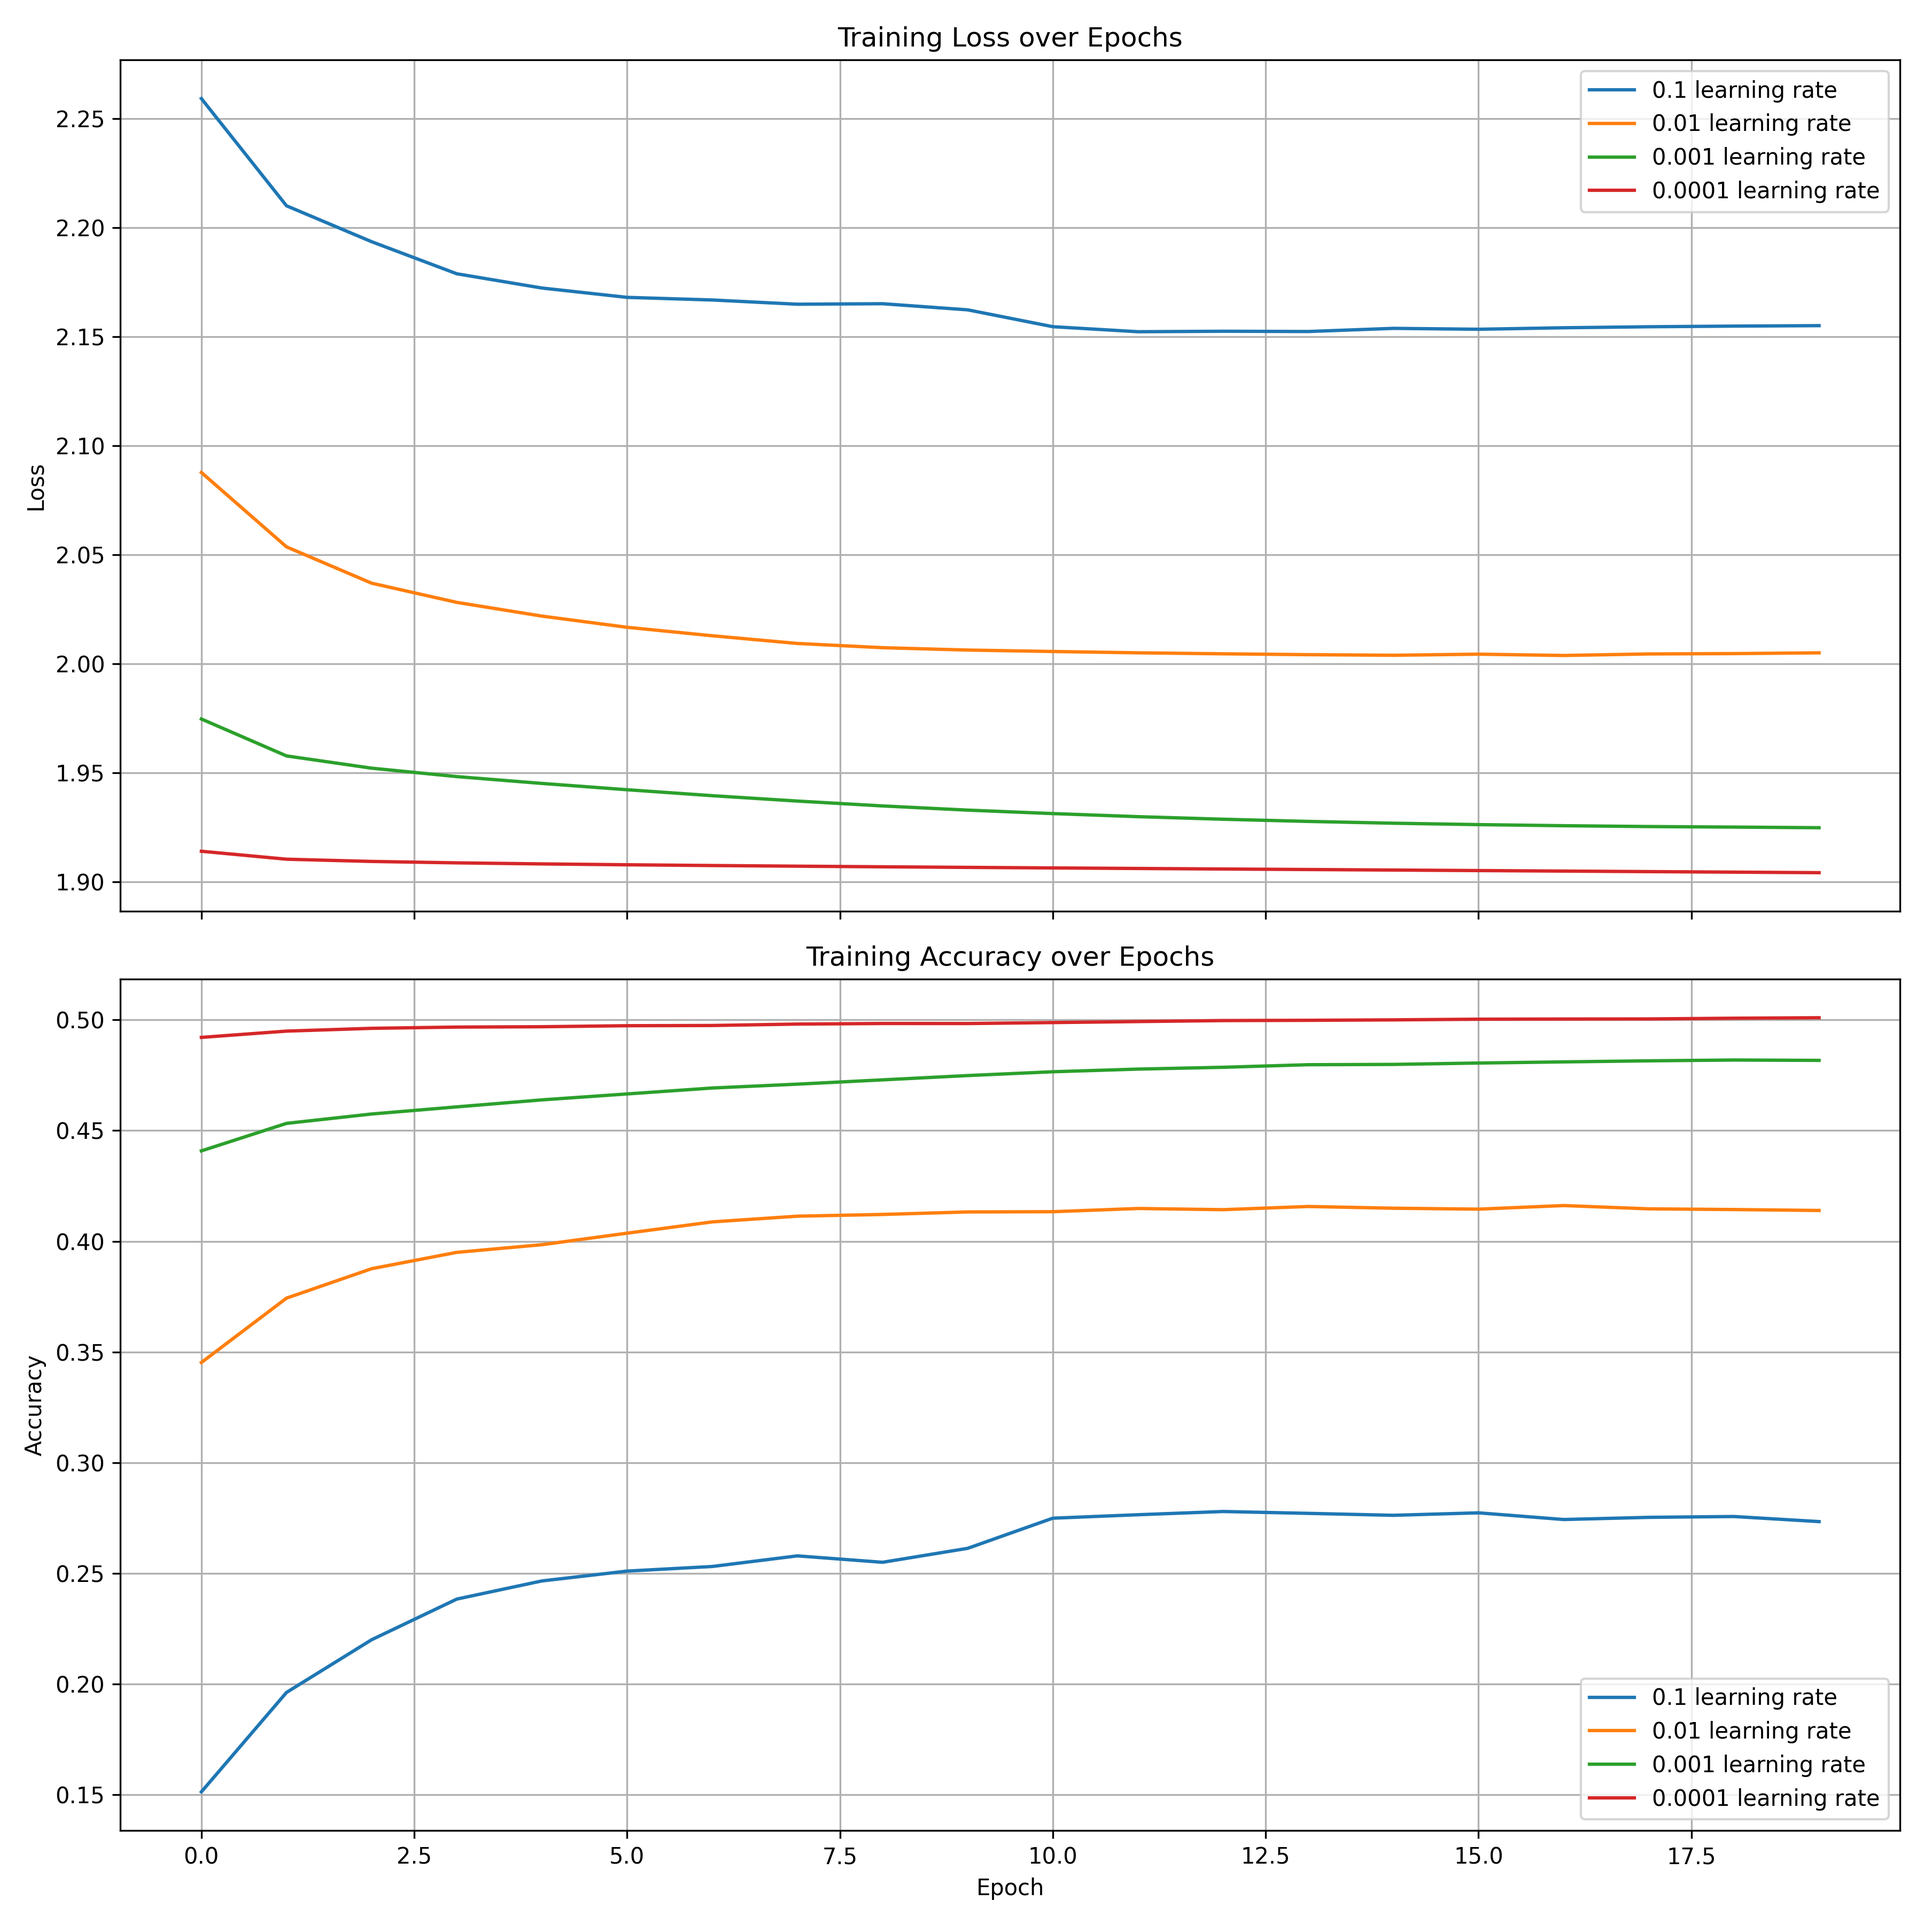
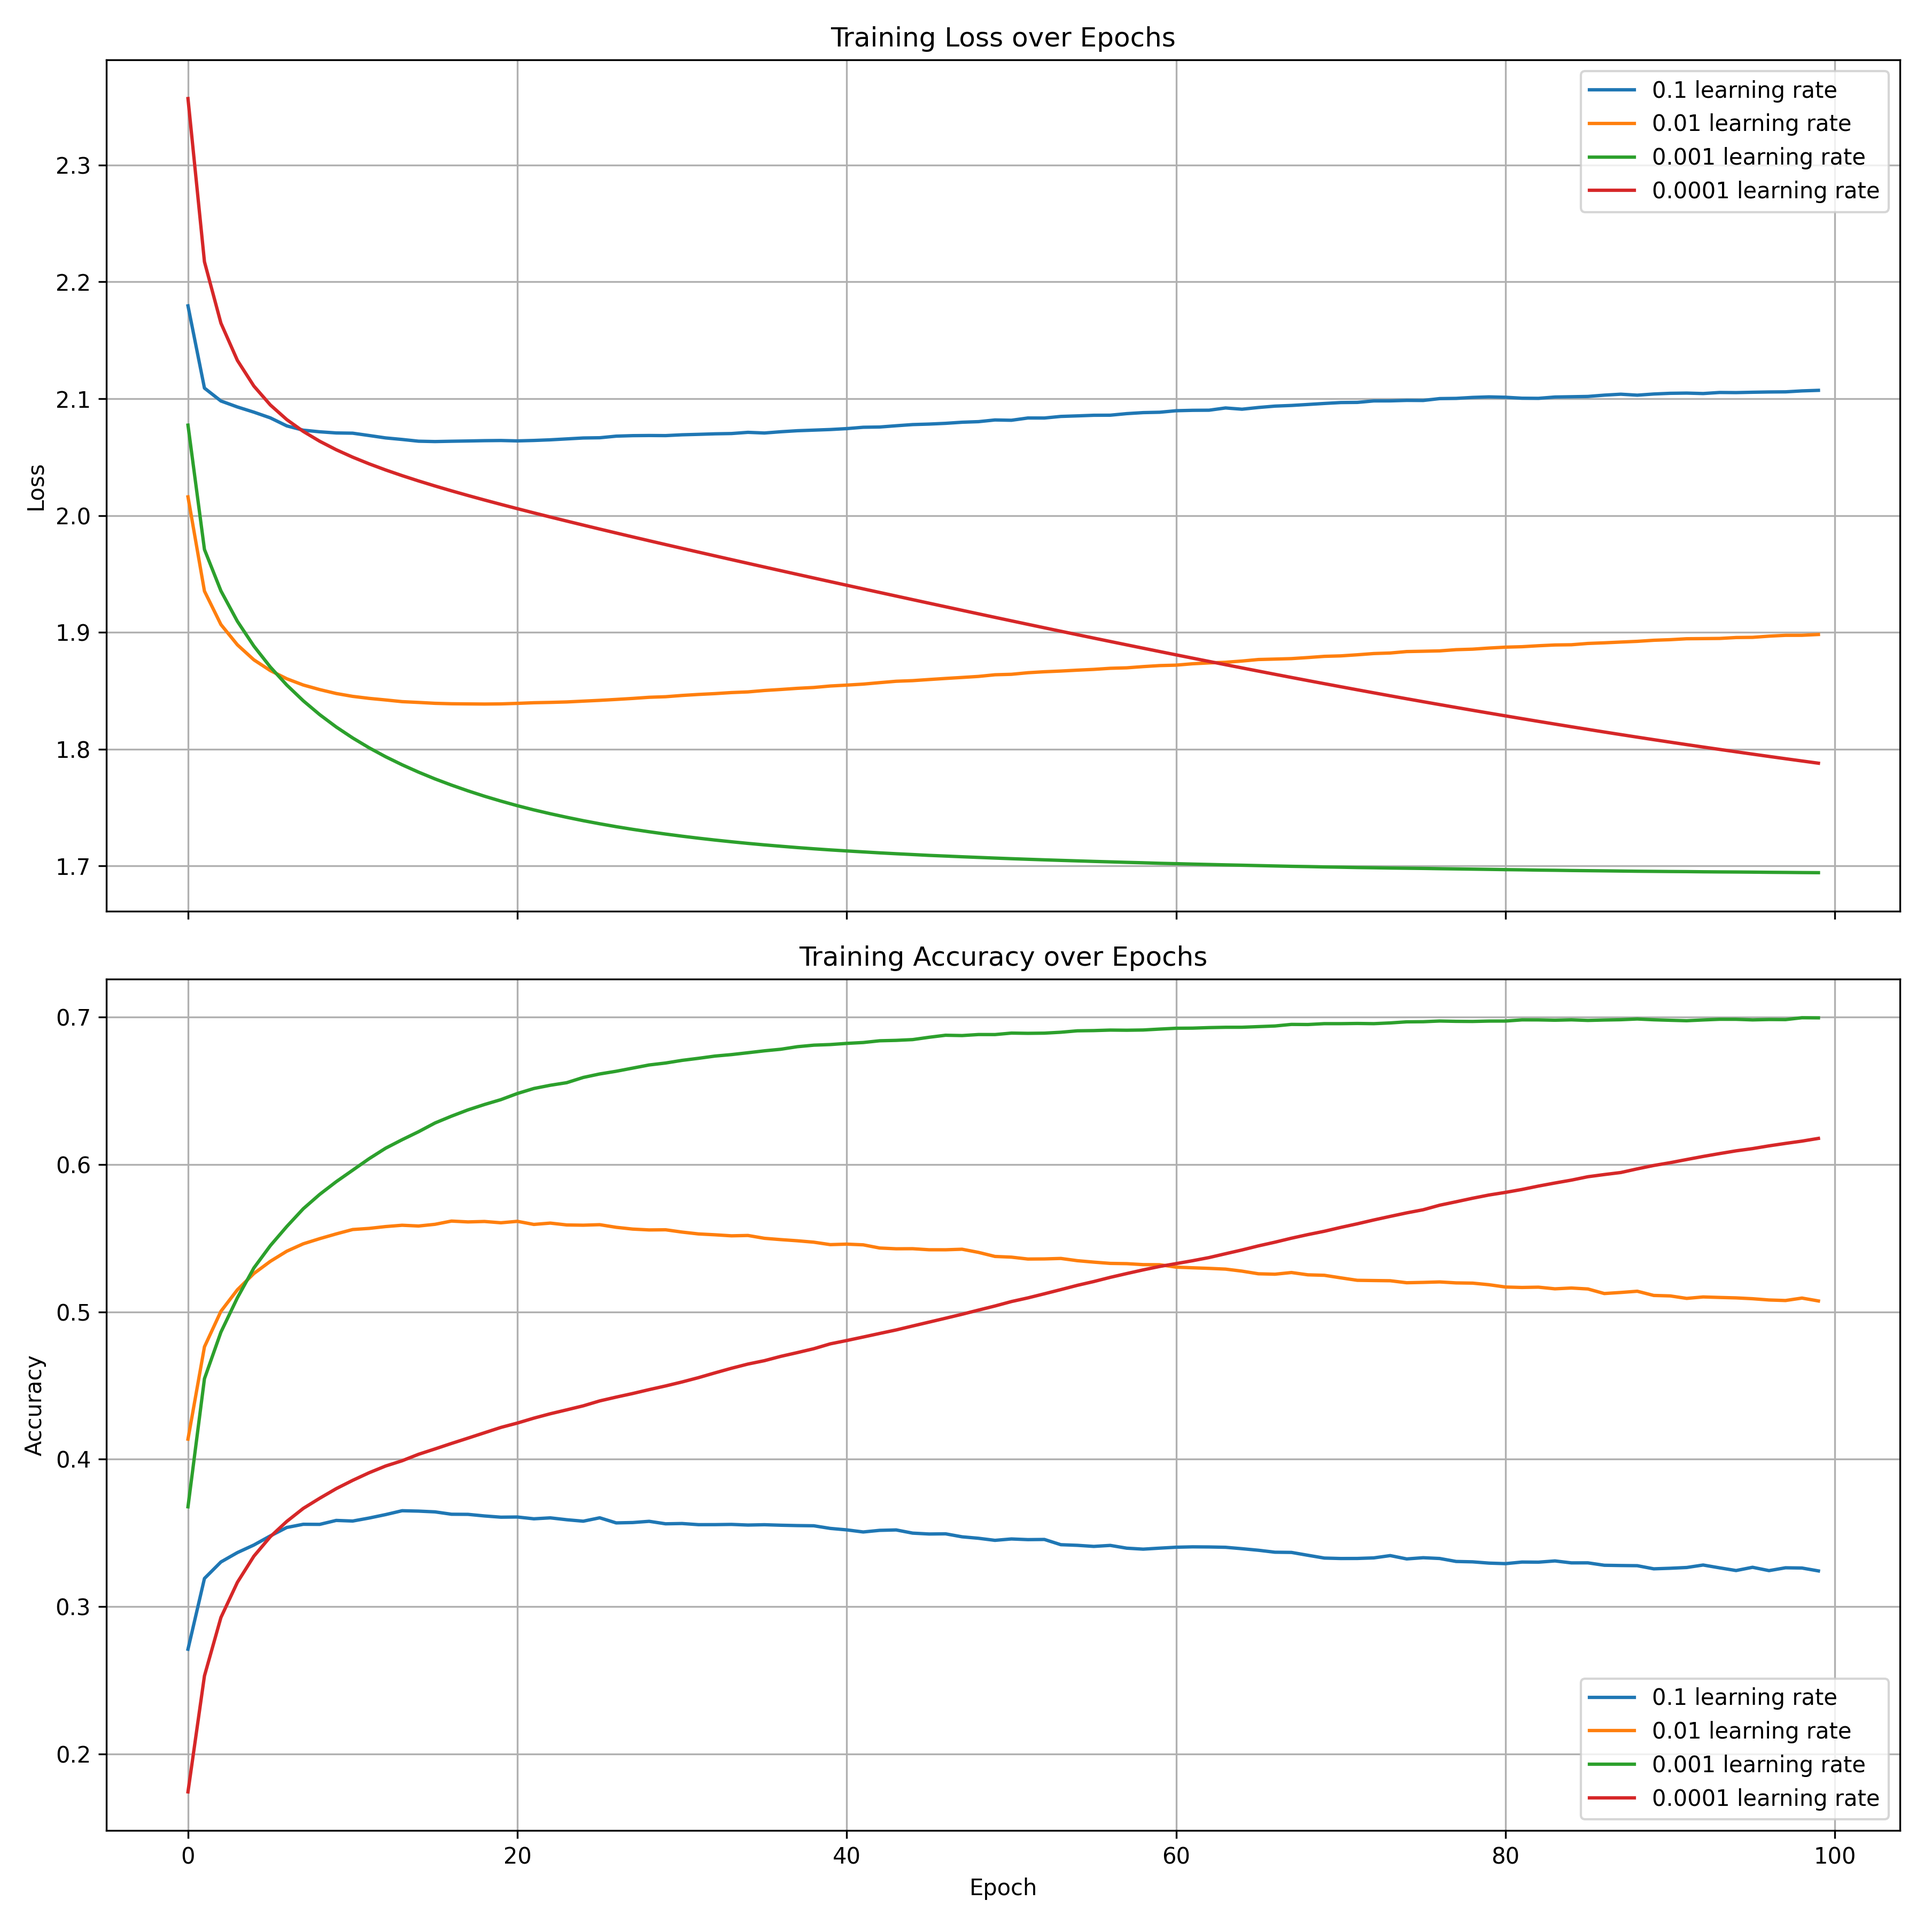
fixed hyperparams again

diff --git a/experiments/hyperparameter.py b/experiments/hyperparameter.py
@@ -21,16 +21,7 @@ from tensor import Tensor
 from util import kaiming_uniform, min_max_scale, standard_scale
 from train_util import save_loss_accuracy, train_loop, plot_losses_and_accuracies
 
-model = Composite(
-    [
-        Linear(128, 256, initialise=kaiming_uniform),
-        BatchNormalisation(256),
-        LeakyReLU(),
-        Linear(256, 10, initialise=kaiming_uniform),
-    ]
-)
-
-epochs = [10, 20, 40, 60]
+epochs = [10, 20, 50, 100]
 
 batches = [1, 4, 8, 32, 64, 128]
 
@@ -45,8 +36,8 @@ optimisers = [AdamOptimiser, GradientDescentOptimiser]
 
 def main():
     # Define defaults
-    default_epoch = 20
-    default_batch_size = 8
+    default_epoch = 100
+    default_batch_size = 32
     default_normalisation = standard_scale
     default_learning_rate = 0.001
     default_weight_decay = 0.001
@@ -54,12 +45,12 @@ def main():
 
     # Define all sweeps
     sweep_configs = {
-        "epoch": epochs,
-        "batch": batches,
-        "normalisation": normalisations,
-        "lr": learning_rates,
-        "wd": weight_decays,
-        "optimiser": optimisers,
+        # "epoch": epochs,
+        # "batch": batches,
+        "normalisation": normalisations
+        # "lr": learning_rates,
+        # "wd": weight_decays,
+        # "optimiser": optimisers
     }
 
     for sweep_type, sweep_values in sweep_configs.items():
@@ -72,6 +63,16 @@ def main():
         model_labels = []
 
         for value in sweep_values:
+            # Define the model
+            model = Composite(
+                [
+                    Linear(128, 256, initialise=kaiming_uniform),
+                    BatchNormalisation(256),
+                    LeakyReLU(),
+                    Linear(256, 10, initialise=kaiming_uniform),
+                ]
+            )
+
             # Start with defaults
             epoch = default_epoch
             batch_size = default_batch_size
@@ -89,7 +90,9 @@ def main():
                 model_labels.append(f'batch size {value}')
             elif sweep_type == "normalisation":
                 normalisation = value
-                model_labels.append(f'{value} normalisation')
+                name_dict = {0: "Min-max", 1: "Standard scaling"}
+                name = name_dict[normalisations.index(normalisation)]
+                model_labels.append(f'{name} normalisation')
             elif sweep_type == "lr":
                 learning_rate = value
                 model_labels.append(f'{value} learning rate')
@@ -98,8 +101,8 @@ def main():
                 model_labels.append(f'{value} weight decay')
             elif sweep_type == "optimiser":
                 optimiser_cls = value
-                model_labels.append(f'{value} optimiser')
-
+                model_labels.append(f'{value.name} optimiser')
+            
             # Load data
             X_train = Tensor(normalisation(np.load("../data/train_data.npy")))
             y_train = Tensor(np.load("../data/train_label.npy").squeeze())

diff --git a/experiments/ablation_test.py b/experiments/ablation_test.py
@@ -15,7 +15,7 @@ from layer import (
 )
 from optimiser import GradientDescentOptimiser, AdamOptimiser
 from tensor import Tensor
-from util import kaiming_uniform, min_max_scale
+from util import kaiming_uniform, min_max_scale, standard_scale
 from train_util import save_loss_accuracy, train_loop, plot_losses_and_accuracies
 
 # Optimal model for reference
@@ -30,11 +30,11 @@ optimal_model = Composite(
 
 def main():
     # Optimal hyperparams
-    epochs = 20
+    epochs = 100
     batch_size = 64
-    normalisation = min_max_scale
-    learning_rate = 0.0001
-    weight_decay = 1e-05
+    normalisation = standard_scale
+    learning_rate = 0.001
+    weight_decay = 0.001
     optimiser = AdamOptimiser
 
     # Define all sweeps
